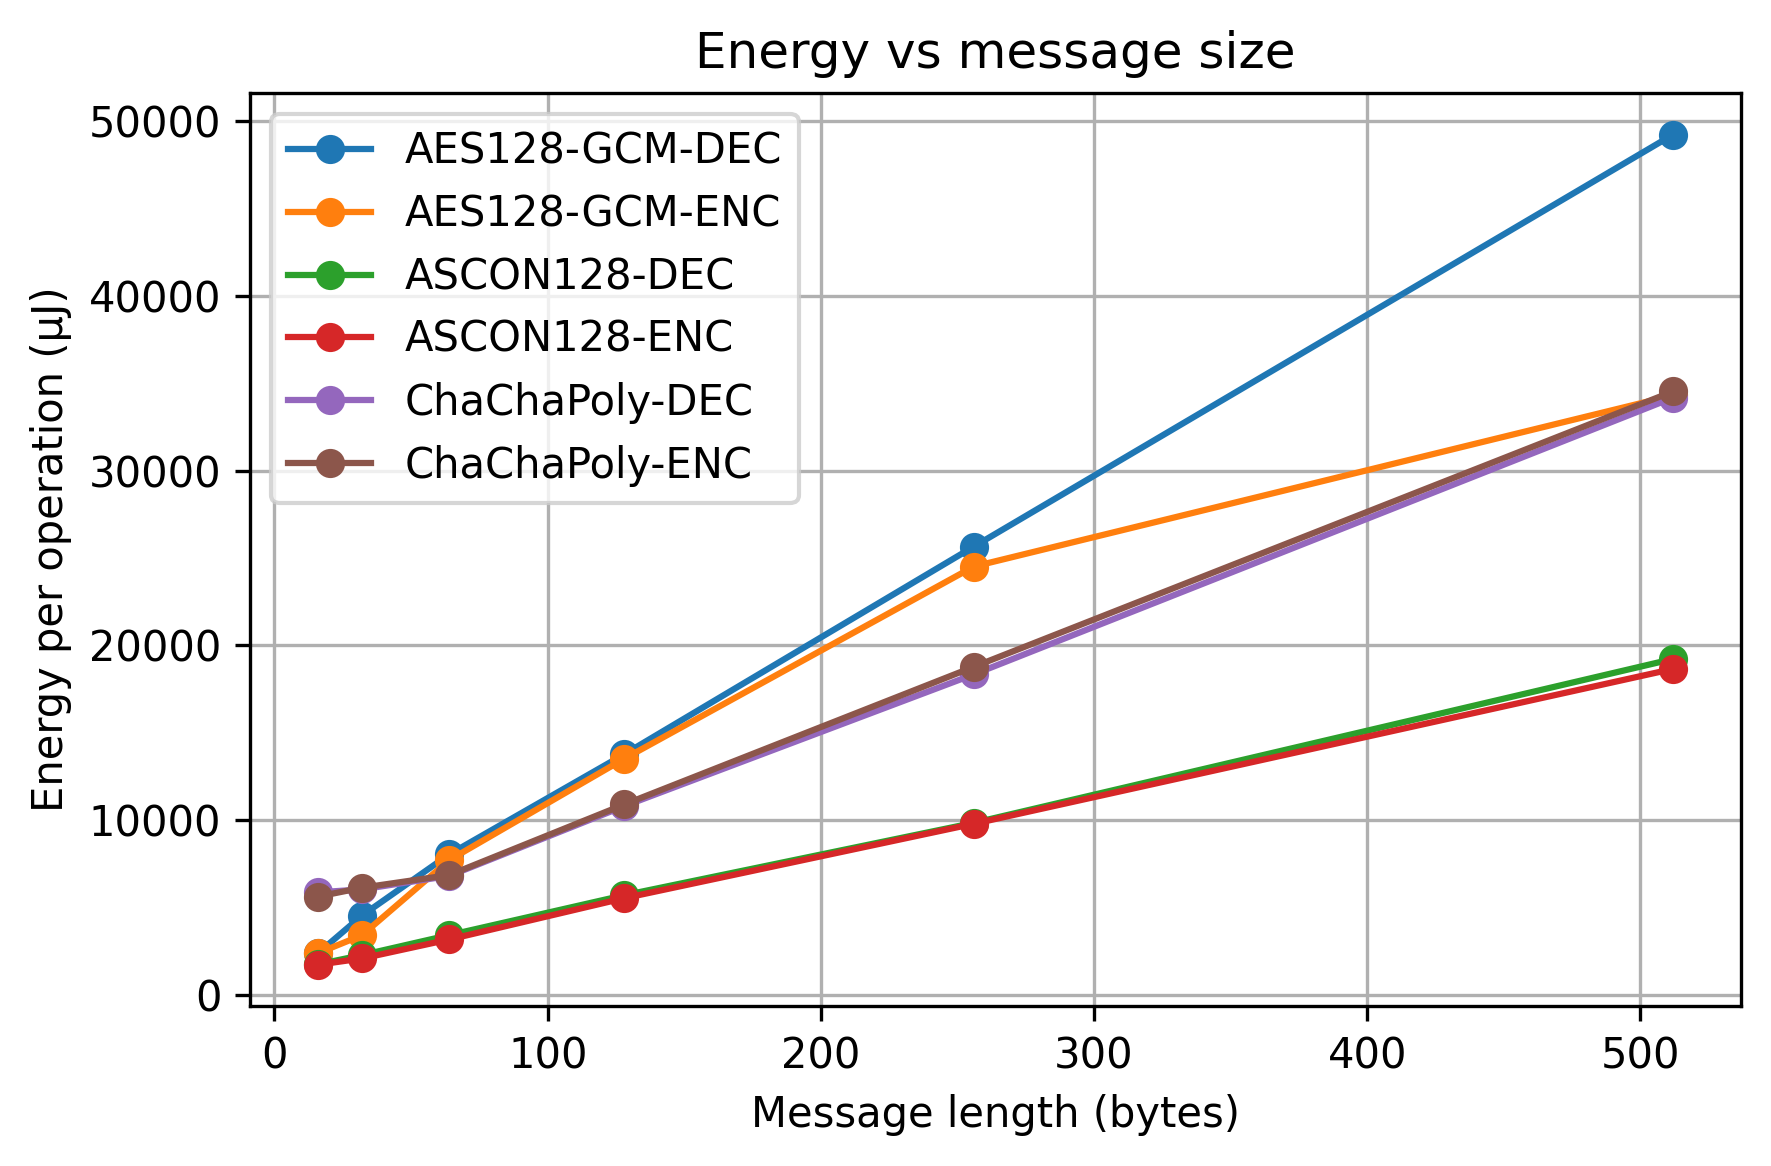
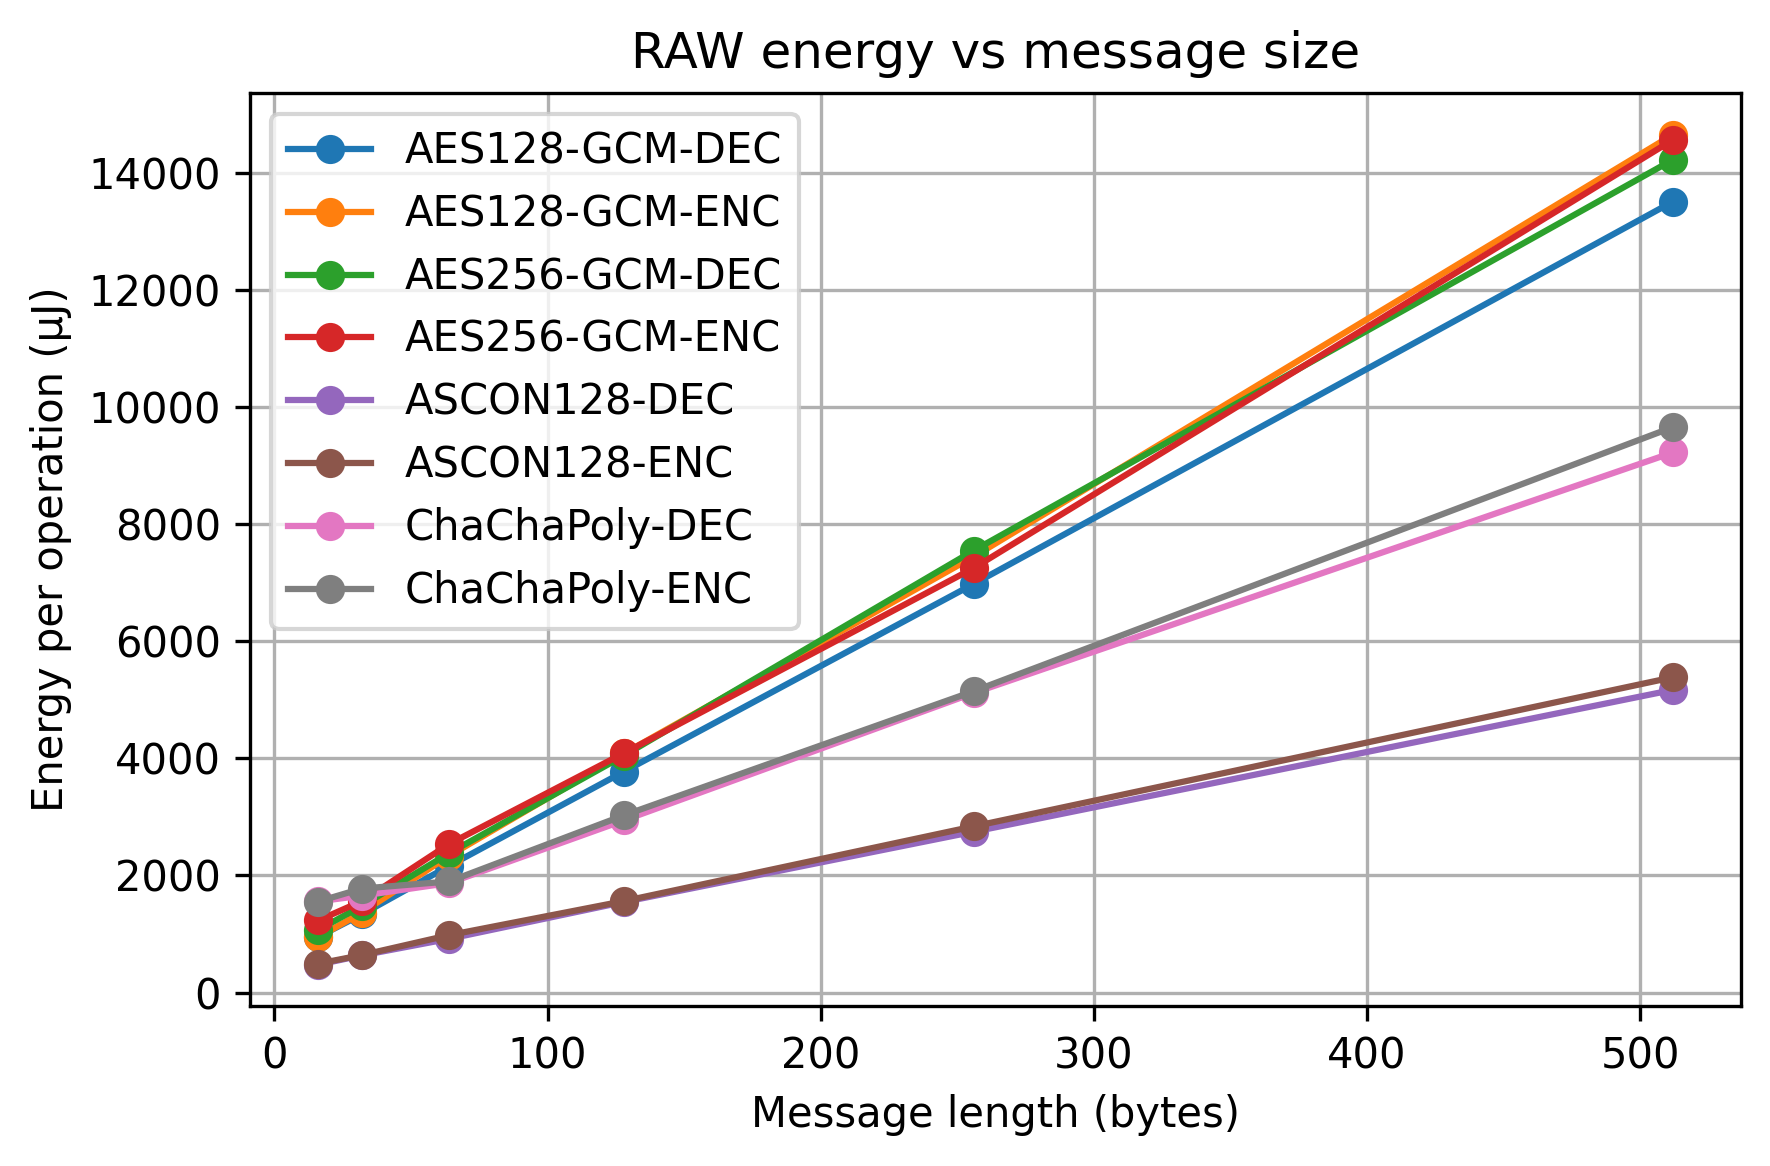
Refactor energy measurement pipeline and regenerate final results

diff --git a/scripts/merge_energy_timing.py b/scripts/merge_energy_timing.py
@@ -6,76 +6,84 @@ TIMING = Path("data/raw/timing_results.csv")
 OUT = Path("data/processed/final_results.csv")
 
 def normalize_base(a: str) -> str:
-    a = a.strip()
+    a = str(a).strip()
     mapping = {
         "AES-GCM": "AES128-GCM",
         "AES128-GCM": "AES128-GCM",
+        "AES256-GCM": "AES256-GCM",
         "ASCON": "ASCON128",
         "ASCON128": "ASCON128",
         "ChaChaPoly": "ChaChaPoly",
         "ChaCha20-Poly1305": "ChaChaPoly",
         "CHACHA": "ChaChaPoly",
+        "BASELINE": "BASELINE",
     }
     return mapping.get(a, a)
+
+def normalize_full(a: str) -> str:
+    a = str(a).strip()
+    parts = a.split("-")
+    if len(parts) >= 2 and parts[-1] in ("ENC", "DEC", "BASE"):
+        base = "-".join(parts[:-1])
+        mode = parts[-1]
+        return f"{normalize_base(base)}-{mode}"
+    return normalize_base(a)
 
 def main():
     dfE = pd.read_csv(ENERGY)
     dfT = pd.read_csv(TIMING)
 
-    # timing must have these columns
-    for c in ["algo", "msg_len", "reps", "avg_us"]:
-        if c not in dfT.columns:
-            raise ValueError(f"timing_results.csv missing column: {c}")
+    # --- Ensure msg_len types are consistent ---
+    dfE["msg_len"] = pd.to_numeric(dfE["msg_len"], errors="coerce")
+    dfT["msg_len"] = pd.to_numeric(dfT["msg_len"], errors="coerce")
 
-    # If timing already has ENC/DEC, just normalize and merge
-    has_mode = dfT["algo"].astype(str).str.endswith(("ENC", "DEC")).any()
+    dfE = dfE.dropna(subset=["msg_len"]).copy()
+    dfT = dfT.dropna(subset=["msg_len"]).copy()
 
-    if has_mode:
-        # normalize full algo name
-        def norm_full(a: str) -> str:
-            a = a.strip()
-            parts = a.split("-")
-            if len(parts) >= 2 and parts[-1] in ("ENC", "DEC"):
-                base = "-".join(parts[:-1])
-                mode = parts[-1]
-                return f"{normalize_base(base)}-{mode}"
-            return normalize_base(a)
+    dfE["msg_len"] = dfE["msg_len"].astype(int)
+    dfT["msg_len"] = dfT["msg_len"].astype(int)
 
-        dfT["algo"] = dfT["algo"].astype(str).apply(norm_full)
+    # Normalize names
+    dfE["algo"] = dfE["algo"].astype(str).str.strip()
+    dfT["algo"] = dfT["algo"].apply(normalize_full)
 
-    else:
-        # timing has only base algos (AES-GCM, ASCON, ...)
-        # duplicate into ENC and DEC so it can match energy algos
-        dfT["algo"] = dfT["algo"].astype(str).apply(normalize_base)
+    # --- Baseline current from energy_results.csv ---
+    base_rows = dfE[dfE["algo"] == "BASELINE-BASE"]
+    if base_rows.empty:
+        raise ValueError("Missing BASELINE-BASE in energy_results.csv (baseline current).")
+    baseline_current_mA = float(base_rows.iloc[0]["avg_current_mA"])
+    baseline_voltage_V = float(base_rows.iloc[0]["voltage_V"])
 
-        df_enc = dfT.copy()
-        df_enc["algo"] = df_enc["algo"] + "-ENC"
-
-        df_dec = dfT.copy()
-        df_dec["algo"] = df_dec["algo"] + "-DEC"
-
-        dfT = pd.concat([df_enc, df_dec], ignore_index=True)
-
-    # merge
-    df = dfE.merge(dfT[["algo", "msg_len", "reps", "avg_us"]], on=["algo", "msg_len"], how="inner")
+    # Merge energy + timing on (algo, msg_len)
+    df = dfE.merge(
+        dfT[["algo", "msg_len", "reps", "avg_us"]],
+        on=["algo", "msg_len"],
+        how="inner"
+    )
 
     if df.empty:
-        print("Merge produced 0 rows. Still mismatch.")
+        print("Merge produced 0 rows.")
         print("Energy algos:", sorted(dfE["algo"].unique().tolist()))
         print("Timing algos:", sorted(dfT["algo"].unique().tolist()))
         return
 
-    # energy per op (uJ): V * I(A) * t(s) -> J, then *1e6
-    df["energy_uJ"] = (df["voltage_V"] * (df["avg_current_mA"] / 1000.0) * (df["avg_us"] * 1e-6)) * 1e6
+    # --- Energy computations ---
+    df["energy_uJ_raw"] = (df["voltage_V"] * (df["avg_current_mA"] / 1000.0) * (df["avg_us"] * 1e-6)) * 1e6
+    df["baseline_uJ"] = (baseline_voltage_V * (baseline_current_mA / 1000.0) * (df["avg_us"] * 1e-6)) * 1e6
+    df["energy_uJ_crypto"] = df["energy_uJ_raw"] - df["baseline_uJ"]
 
-    df = df[["algo", "msg_len", "reps", "avg_us", "avg_current_mA", "voltage_V", "energy_uJ"]]
-    df = df.sort_values(["algo", "msg_len"]).reset_index(drop=True)
+    df = df[[
+        "algo", "msg_len", "reps", "avg_us",
+        "avg_current_mA", "voltage_V",
+        "baseline_uJ", "energy_uJ_raw", "energy_uJ_crypto"
+    ]].sort_values(["algo", "msg_len"]).reset_index(drop=True)
 
     OUT.parent.mkdir(parents=True, exist_ok=True)
     df.to_csv(OUT, index=False)
 
     print(f"Wrote {OUT} with {len(df)} rows")
     print(df.head())
+
 
 if __name__ == "__main__":
     main()

diff --git a/scripts/build_energy_results.py b/scripts/build_energy_results.py
@@ -11,9 +11,12 @@ VOLTAGE_V = 9.0
 # Map folder -> algo name in final table
 ALGO_MAP = {
     "aes128_gcm": "AES128-GCM",
+    "aes256_gcm": "AES256-GCM",
     "ascon": "ASCON128",
     "chacha": "ChaChaPoly",
+    "baseline": "BASELINE",  
 }
+
 
 # Current column candidates (depends on how Keithley export looks)
 CURRENT_COL_CANDIDATES = [
@@ -34,27 +37,32 @@ def find_current_column(df: pd.DataFrame) -> str:
     return numeric_cols[0]
 
 def infer_msg_len_from_name(fname: str) -> int:
+    # baseline files have no msg_len
+    if fname.startswith("baseline"):
+        return 0
+
     m = re.search(r"_(\d+)\.csv$", fname)
     if not m:
         raise ValueError(f"Cannot infer msg_len from filename: {fname} (expected enc_16.csv etc)")
     return int(m.group(1))
 
 def infer_mode_from_name(fname: str) -> str:
+    if fname.startswith("baseline"):
+        return "BASE"
     if fname.startswith("enc_"):
         return "ENC"
     if fname.startswith("dec_"):
         return "DEC"
-    raise ValueError(f"Filename must start with enc_ or dec_: {fname}")
+    raise ValueError(f"Filename must start with enc_ or dec_ or baseline: {fname}")
 
-def compute_avg_current_mA(csv_path: Path) -> float:
+def compute_avg_current_mA(csv_path: Path, t_min: float = None, t_max: float = None) -> float:
     """
-    Robust parser for Keithley DMM6500 CSV exports that may contain
-    metadata, ragged rows, mixed delimiters, etc.
+    Average current (mA) from Keithley CSV.
 
-    Strategy: scan all lines and extract numeric tokens; keep values
-    that look like current readings (in A). Then average.
+    If t_min/t_max are given, we only average samples whose Relative Time is in [t_min, t_max].
+    Relative Time is assumed to be column 14 (0-based index 13) in your export:
+    ... Origin,Relative Time,Channel,CH Label
     """
-
     values_A = []
 
     with open(csv_path, "r", encoding="utf-8", errors="ignore") as f:
@@ -63,29 +71,40 @@ def compute_avg_current_mA(csv_path: Path) -> float:
             if not line:
                 continue
 
-            # Split on common delimiters (comma, semicolon, tabs)
-            parts = re.split(r"[;, \t]+", line)
+            parts = line.split(",")
+            if len(parts) < 15:
+                continue
 
-            for tok in parts:
-                # normalize scientific notation like 1.23E-3
-                try:
-                    v = float(tok)
-                except ValueError:
-                    continue
+            unit = parts[1].strip()
+            if "Amp" not in unit:
+                continue
 
-                # Heuristic filter: keep values that look like current in Amps.
-                # Arduino current is typically 0.02–0.10 A.
-                # Accept a wider range just in case.
-                if 1e-6 < abs(v) < 1.0:
-                    values_A.append(v)
+            # reading in amps
+            try:
+                val_A = float(parts[0].strip())
+            except ValueError:
+                continue
+
+            # relative time (seconds)
+            # In your export: "... Origin,Relative Time,Channel,CH Label"
+            # Relative Time appears near the end and looks like 0.000100000
+            try:
+                rel_t = float(parts[13].strip())
+            except ValueError:
+                rel_t = None
+
+            if t_min is not None and rel_t is not None and rel_t < t_min:
+                continue
+            if t_max is not None and rel_t is not None and rel_t > t_max:
+                continue
+
+            if 1e-6 < abs(val_A) < 1.0:
+                values_A.append(val_A)
 
     if not values_A:
-        raise ValueError(f"No current-like numeric values found in {csv_path}")
+        raise ValueError(f"No current readings found in {csv_path} (after time filtering).")
 
-    avg_A = sum(values_A) / len(values_A)
-    avg_mA = avg_A * 1000.0
-    return float(avg_mA)
-
+    return float((sum(values_A) / len(values_A)) * 1000.0)
 
 
 def main():
@@ -101,7 +120,12 @@ def main():
             mode = infer_mode_from_name(fname)
             msg_len = infer_msg_len_from_name(fname)
 
-            avg_current_mA = compute_avg_current_mA(csv_path)
+            if folder == "baseline":
+                # baseline.csv in your example starts at ~10s; take a stable window
+                avg_current_mA = compute_avg_current_mA(csv_path, t_min=10.5, t_max=20.0)
+            else:
+                avg_current_mA = compute_avg_current_mA(csv_path)
+
 
             rows.append({
                 "algo": f"{algo_name}-{mode}",

diff --git a/scripts/plot_energy.py b/scripts/plot_energy.py
@@ -10,12 +10,13 @@ def main():
     plt.figure(figsize=(6, 4))
 
     for algo in df["algo"].unique():
-        sub = df[df["algo"] == algo]
-        plt.plot(sub["msg_len"], sub["energy_uJ"], marker="o", label=algo)
+        sub = df[df["algo"] == algo].sort_values("msg_len")
+        # Plot RAW energy (no baseline subtraction)
+        plt.plot(sub["msg_len"], sub["energy_uJ_raw"], marker="o", label=algo)
 
     plt.xlabel("Message length (bytes)")
     plt.ylabel("Energy per operation (µJ)")
-    plt.title("Energy vs message size")
+    plt.title("RAW energy vs message size")
     plt.legend()
     plt.grid(True)
     plt.tight_layout()
